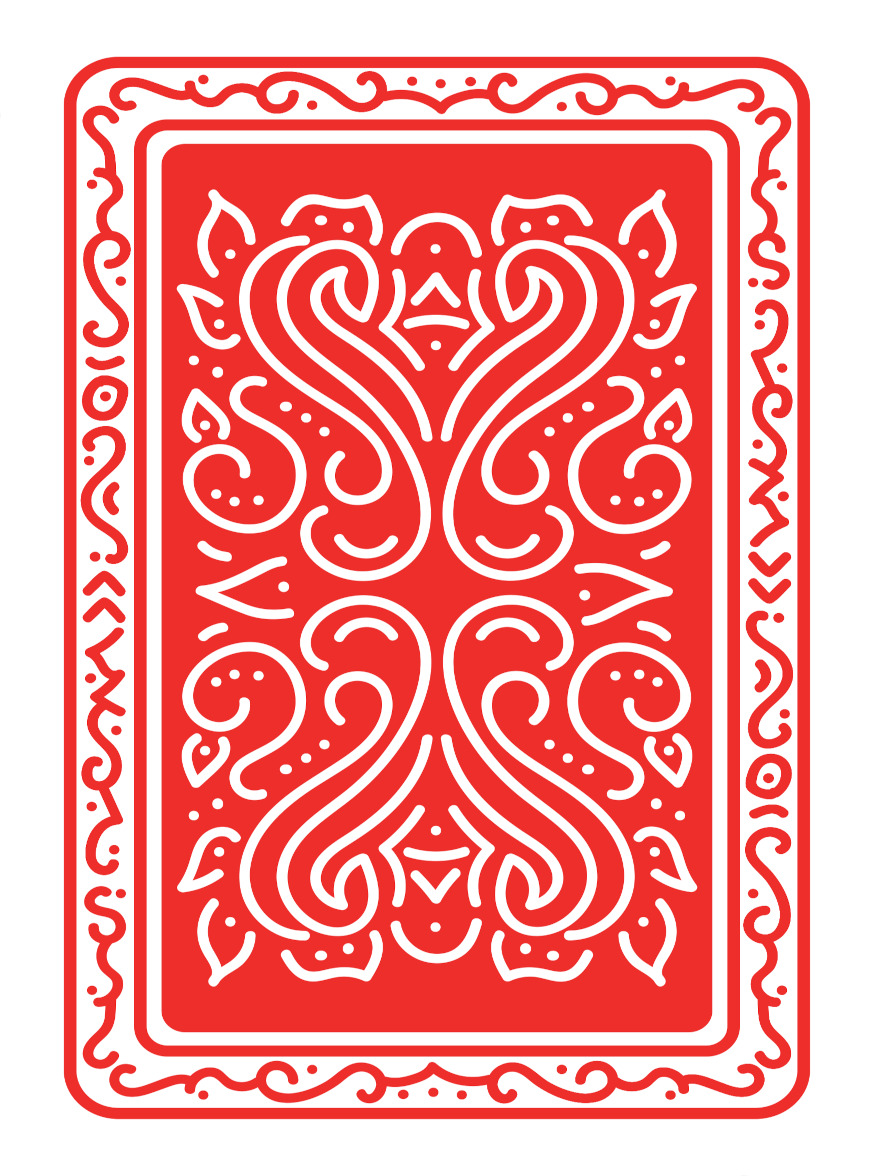
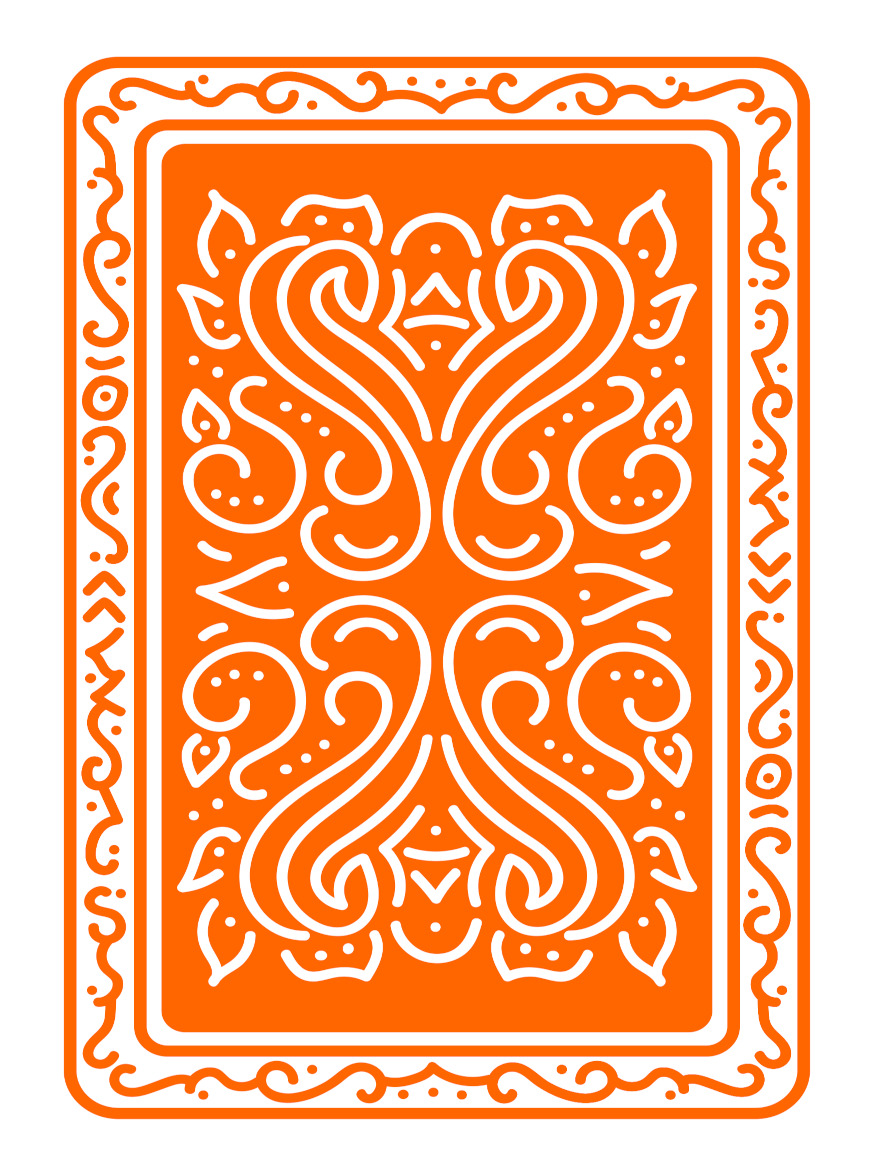
7.12
Goliat deck orange back

diff --git a/src/main/java/com/tonikelope/coronapoker/AboutDialog.java b/src/main/java/com/tonikelope/coronapoker/AboutDialog.java
@@ -16,7 +16,7 @@ import javax.swing.ImageIcon;
  */
 public class AboutDialog extends javax.swing.JDialog {
 
-    public static final String VERSION = "FINAL-7.11";
+    public static final String VERSION = "FINAL-7.12";
     public static final String TITLE = "¿De dónde ha salido esto?";
     public static final int MAX_MOD_LOGO_HEIGHT = 75;
     private volatile String last_mp3_loop = null;
